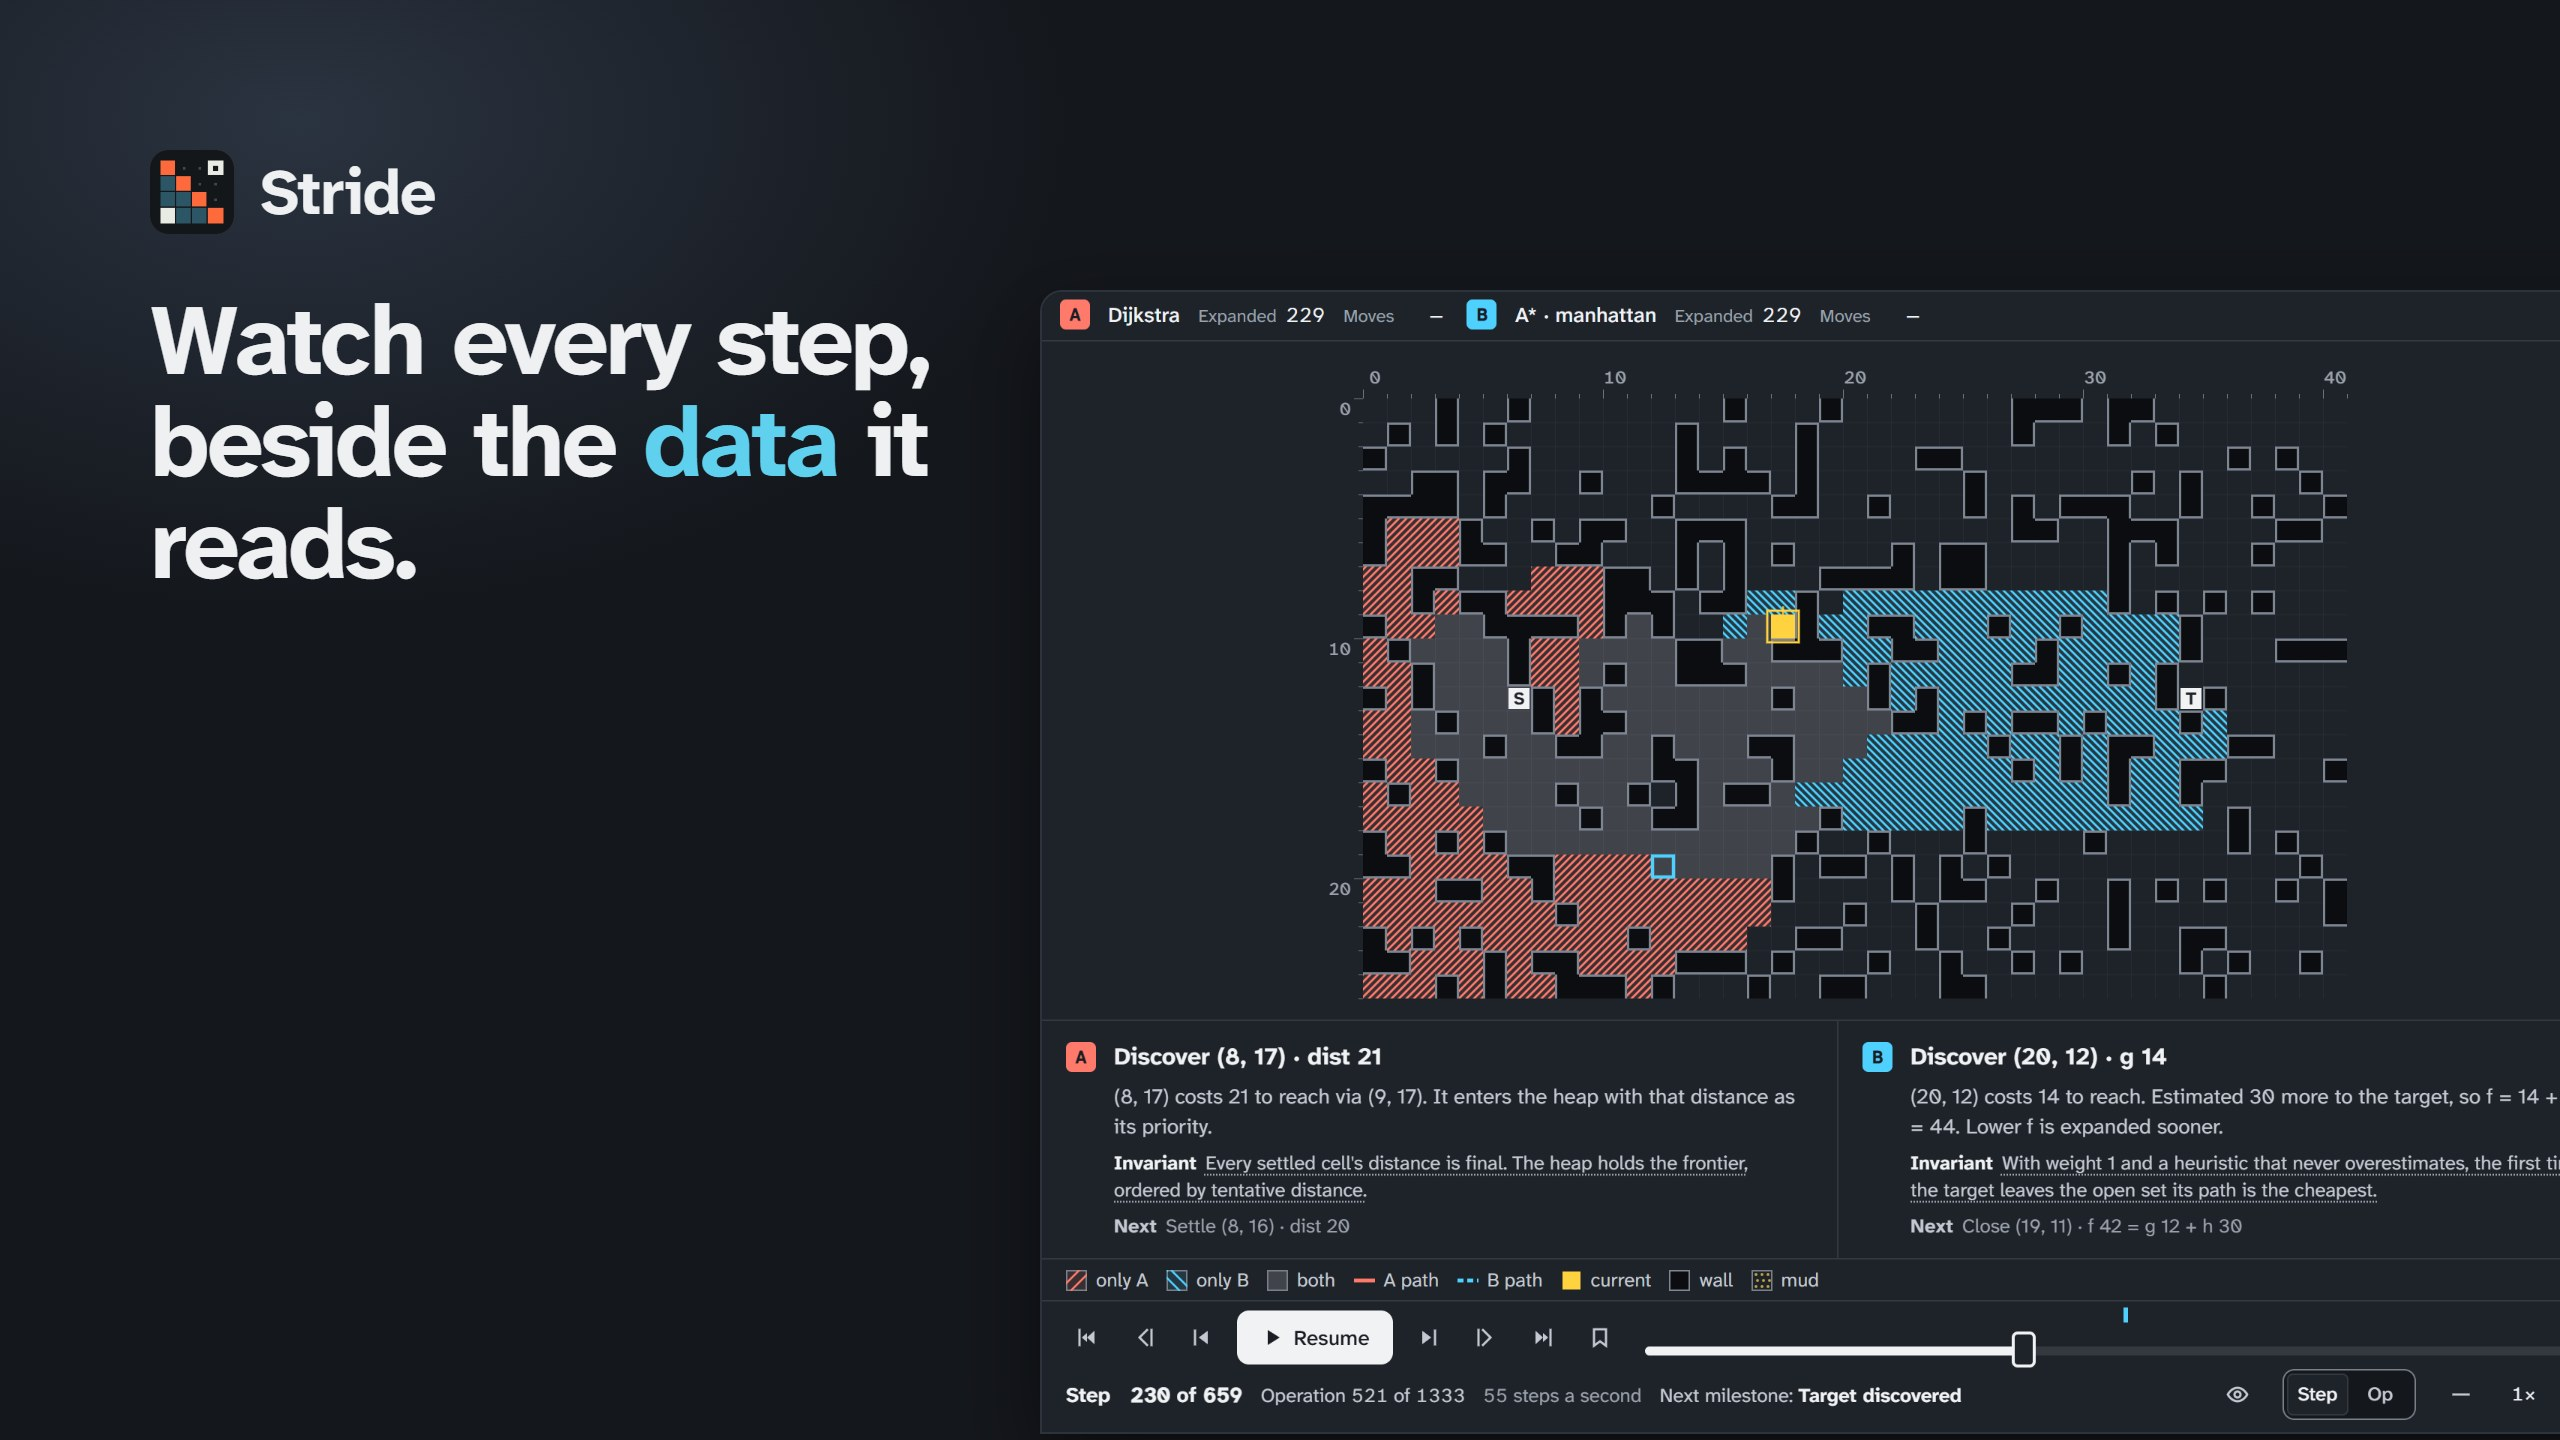
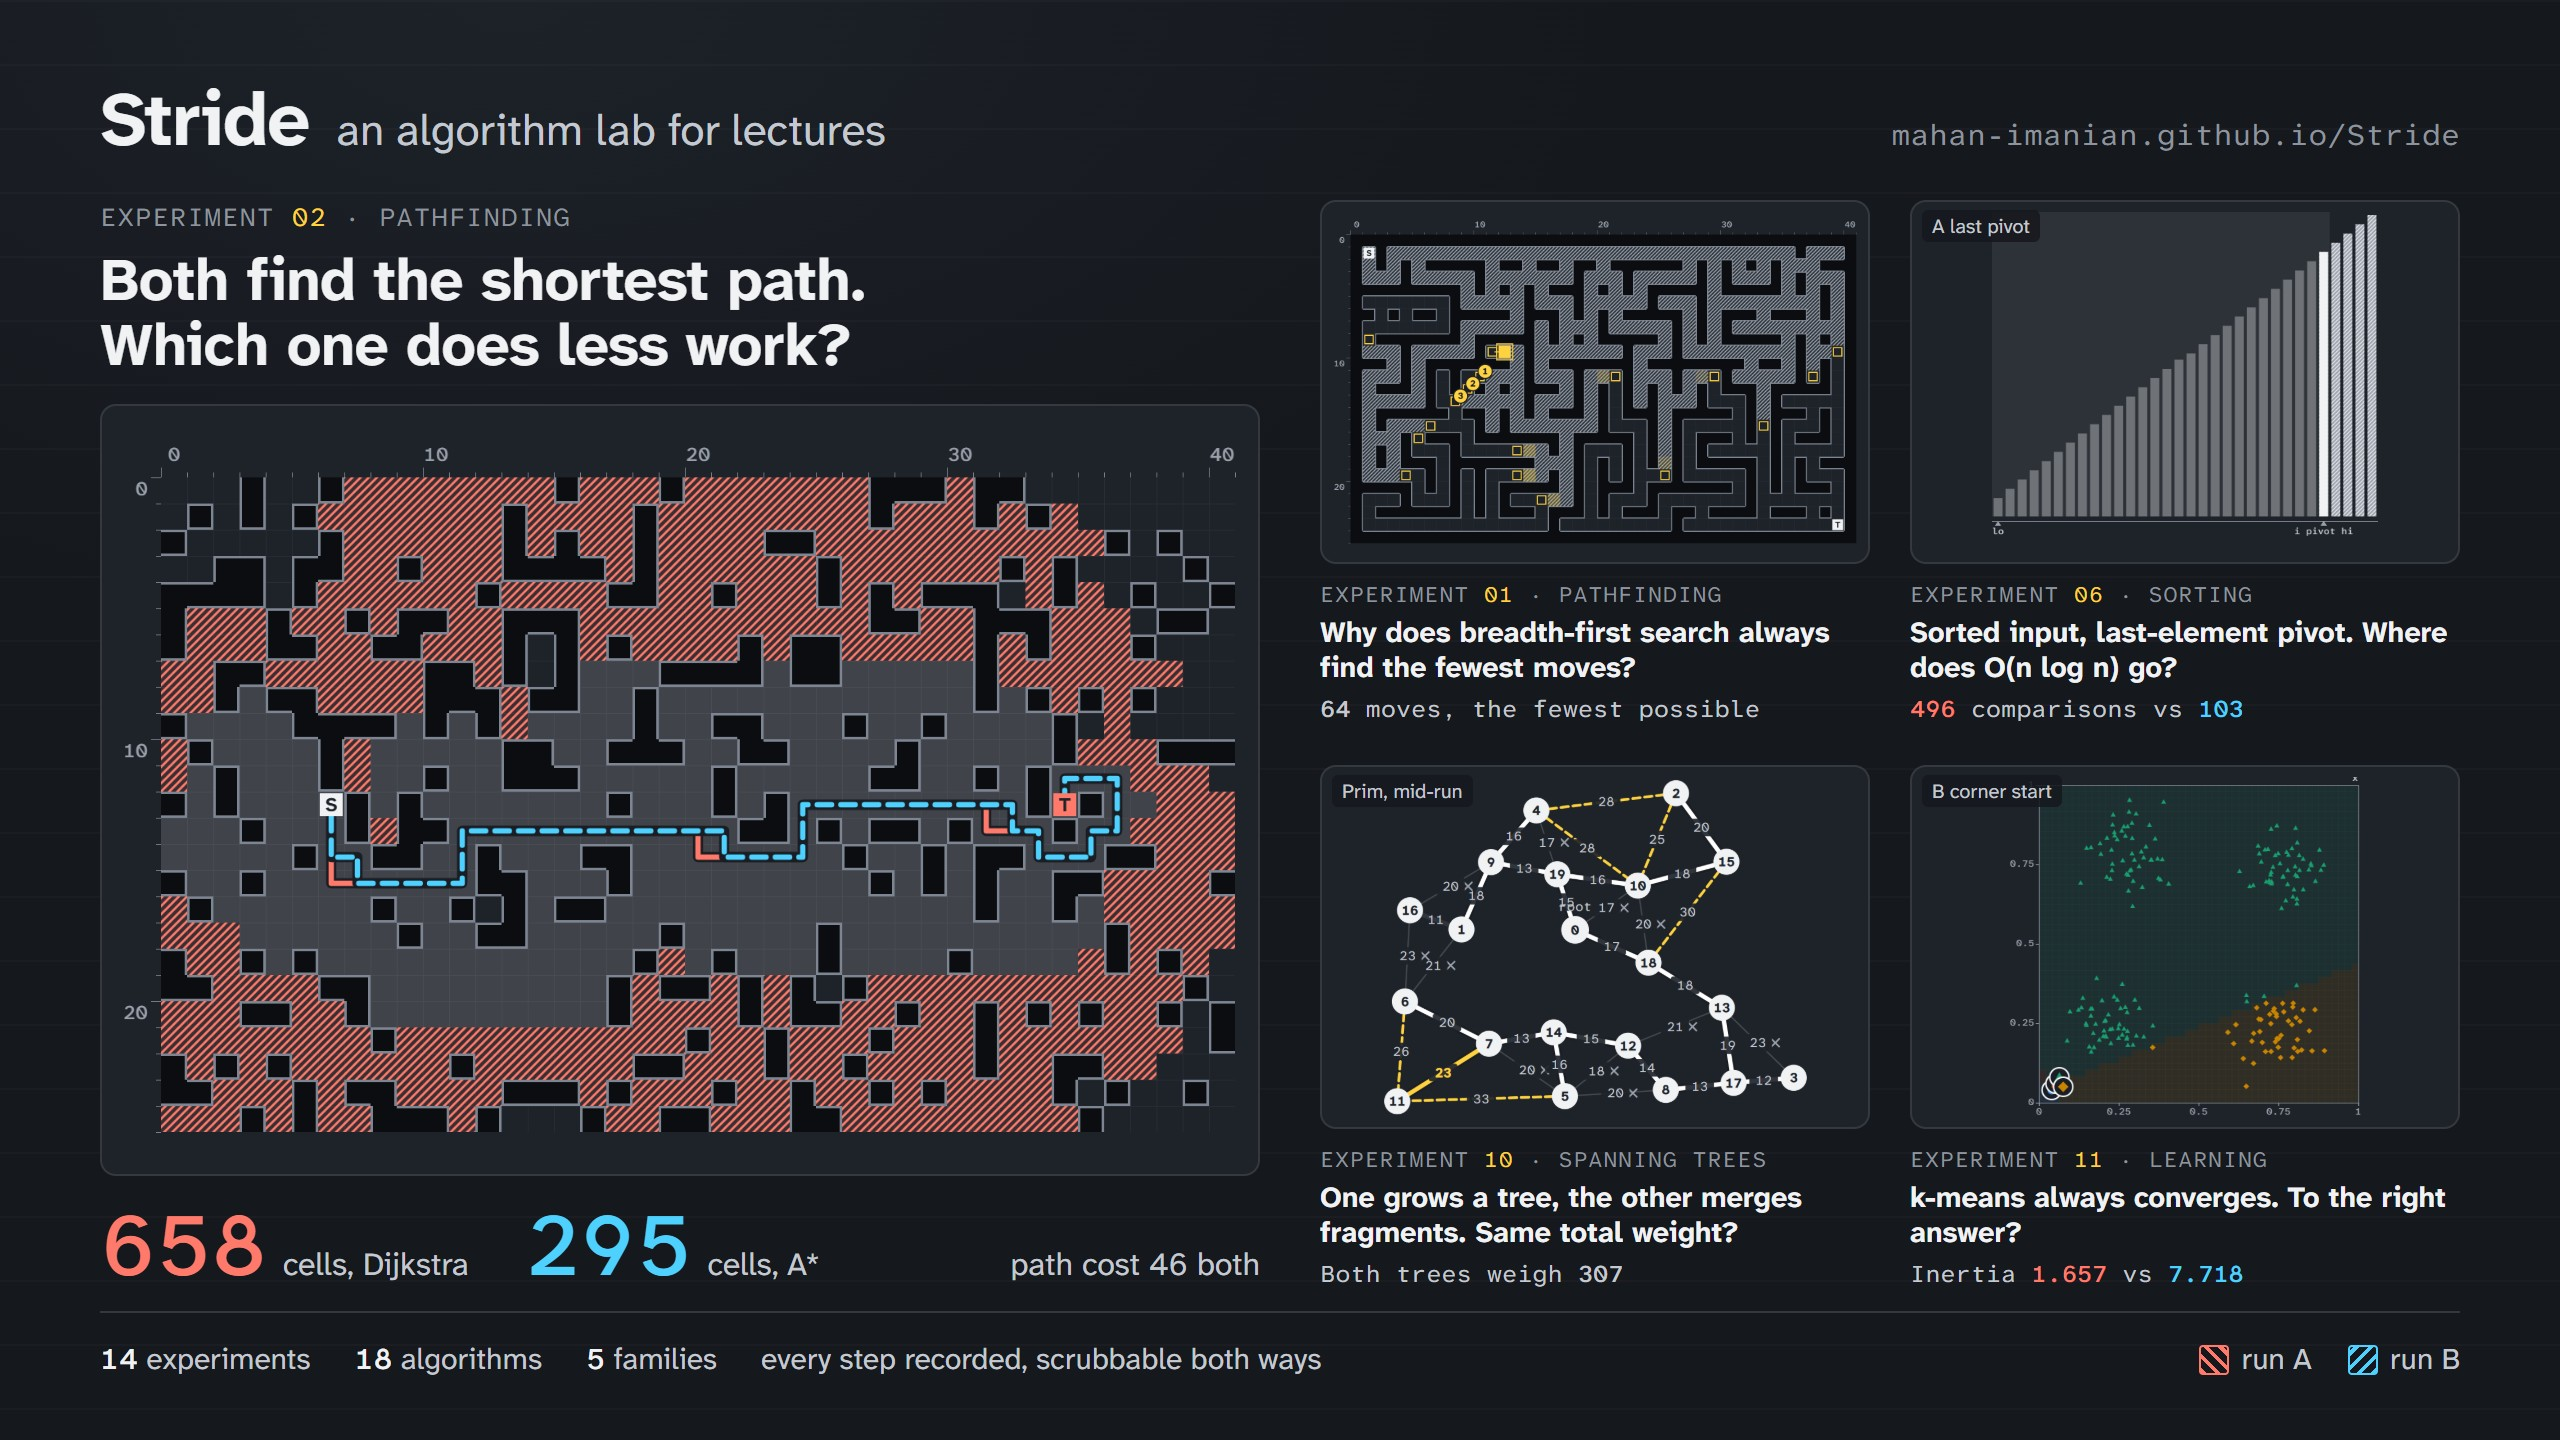
Redo the Stride tile

diff --git a/README.md b/README.md
@@ -16,7 +16,7 @@ Hi, stranger! I'm Mahan. I spend most of my time building tools for developers a
       <p><sub><b>Live</b> at <a href="https://codersays.com">codersays.com</a> · Laravel</sub></p>
     </td>
     <td width="50%" valign="top">
-      <a href="https://github.com/Mahan-Imanian/Stride"><img alt="Stride: Watch every step, beside the data it reads. Beside it, the lab 230 steps into Dijkstra and A* on one blackboard grid, each run hatched its own way, with both step captions underneath." src="assets/tile-stride.jpg" width="100%"></a>
+      <a href="https://github.com/Mahan-Imanian/Stride"><img alt="Stride, an algorithm lab for lectures: five experiments on a blackboard. The largest asks which of Dijkstra and A* does less work for the same shortest path, 658 cells against 295. Beside it, BFS in a maze, quicksort on sorted input, Prim building a spanning tree, and k-means from a bad start, each with its question and result." src="assets/tile-stride.jpg" width="100%"></a>
       <h3><a href="https://github.com/Mahan-Imanian/Stride">Stride</a></h3>
       <p>An algorithm lab for lectures and self-study. It records every step of a run and plays it back beside the queue, heap or call stack, and two algorithms can run on the same input to compare their counts.
 </p>
